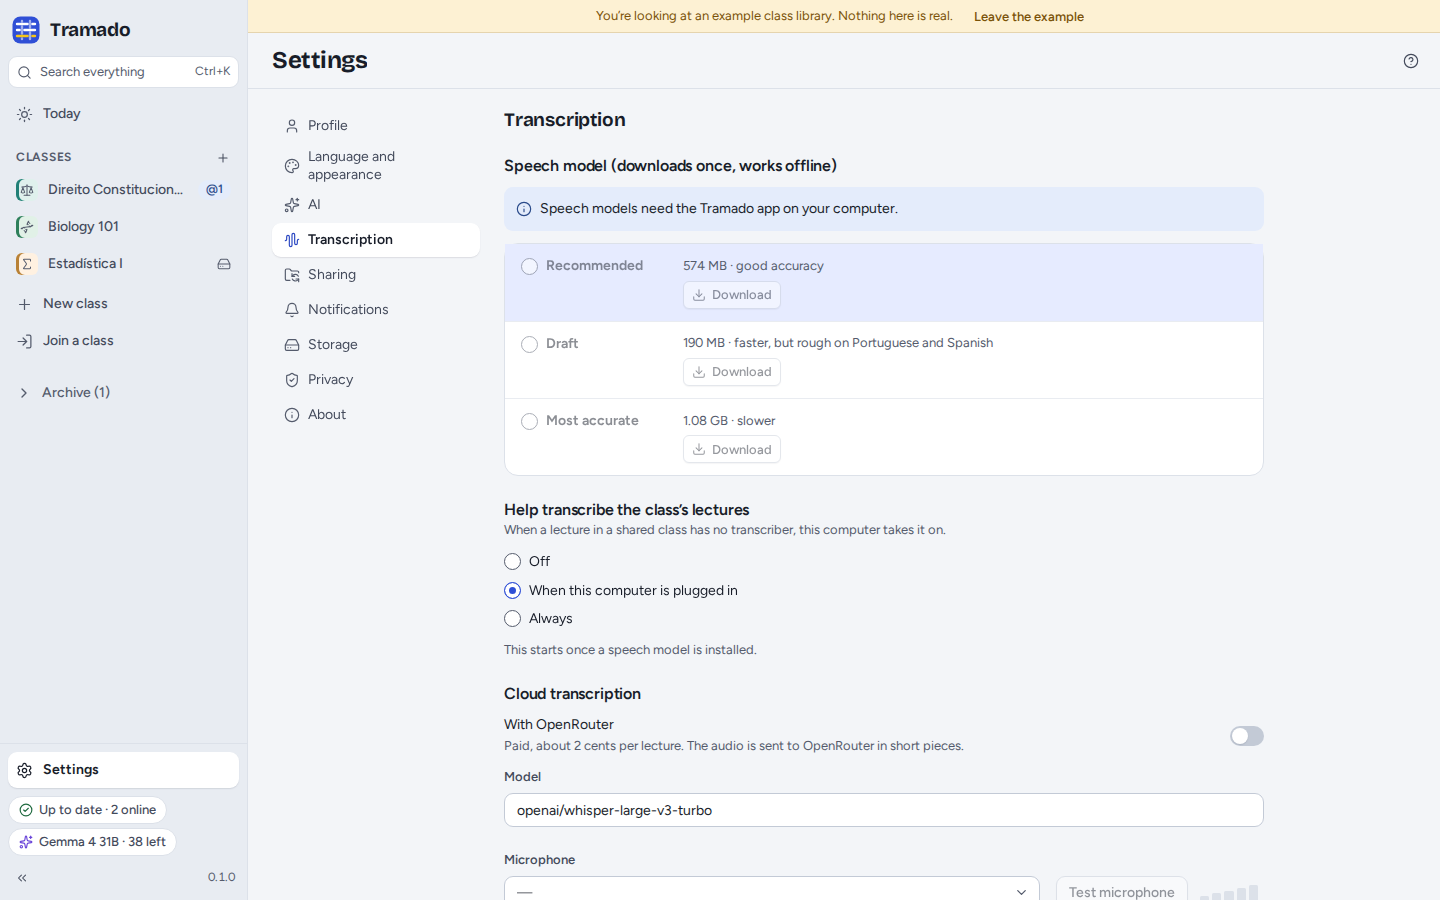
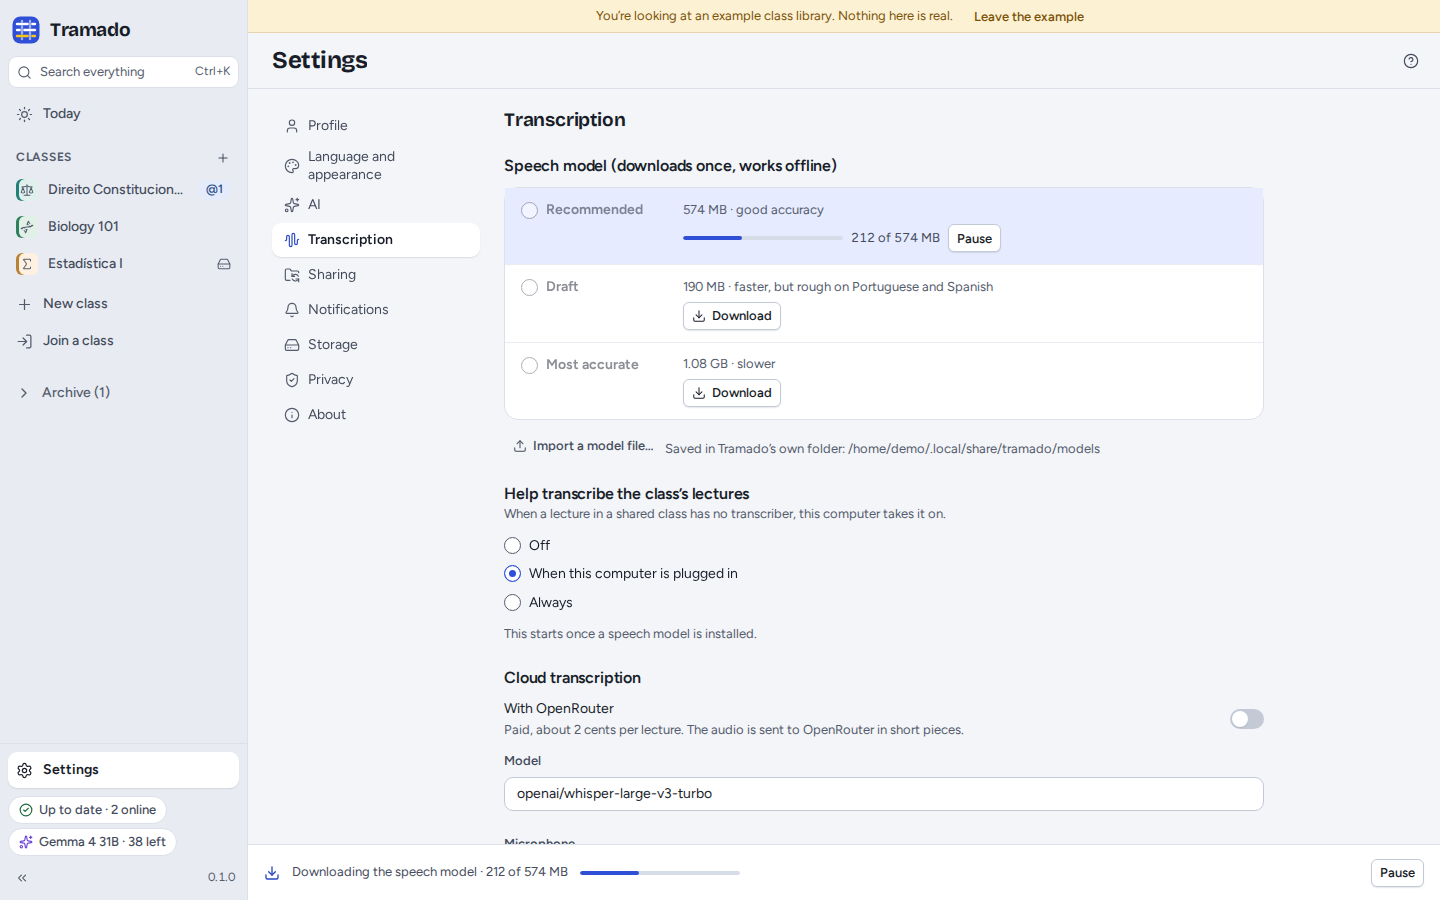
DOCS: review fixes
An independent review checked the documents and workflows against the code at 1e96f72 and fixed what
was not true or would not work:

- ci.yml: the release job fetched Syncthing under Git Bash, where `tar` is GNU tar; it cannot unpack
  the Windows .zip (or a D:\ path), so the Windows installer job would fail. The fetch now runs in the
  runner's default shell (PowerShell on Windows, with Windows' own tar.exe).
- check-links.mjs counted the PNGs `npm run screenshots` leaves in docs/manual/img/<lang>/ (git-ignored),
  so the documented screenshot routine always ended red locally. PNGs are no longer inventoried.
- The Settings › Transcription picture showed the browser demo's "Speech models need the Tramado app"
  notice with greyed models: the shot now loads the speech fake (speech=fake), retaken in en/pt/es.
- AGENTS.md: TRAMADO_SPEECH_DIR is read only by the opt-in tramado-speech tests, not by the app;
  peek-matrix.mjs has no --lang option (it has --name).
- SECURITY.md: private vulnerability reporting is not enabled on the repository yet, so the page now
  says what to do when the button is missing; the link rule names the allow-listed sites.
- ES manual: button names in bold now match the interface (Resaltar, Comentar, Explicar).
- canary.yml: the issue body no longer depends on the script having written its summary.
- README: rust-toolchain.toml selects stable; 1.90 is the minimum from Cargo.toml.

diff --git a/SECURITY.md b/SECURITY.md
@@ -6,8 +6,9 @@ classmates' computers. We take reports seriously and are grateful for them.
 ## Reporting a vulnerability
 
 Please report privately: **do not open a public issue**. Use GitHub's private reporting, the **Report a
-vulnerability** button under this repository's **Security** tab. Include what you found, how to reproduce it, and the
-Tramado version (Settings › About) and operating system. **Copy diagnostics** in Settings › About gives a summary
+vulnerability** button under this repository's **Security** tab. If that button is missing, open an issue titled
+"Security contact" with no details at all, and we will open a private channel and answer there. Include what you
+found, how to reproduce it, and the Tramado version (Settings › About) and operating system. **Copy diagnostics** in Settings › About gives a summary
 without the content of your classes.
 
 We aim to acknowledge reports within 5 working days, to keep you informed while we work on a fix, and to agree a
@@ -31,7 +32,8 @@ The [architecture](docs/dev/architecture.md#16-security-model) (§16) lists ever
   confined to the class's registered folder and refuses symbolic links, so rendered content from a classmate cannot
   read or write elsewhere on your computer.
 - **Untrusted content is rendered safely.** Chat, notes, transcripts and AI output are shown without raw HTML; links
-  open only after a native confirmation; images come only from class files.
+  open in your browser only over `https`, and only after a native confirmation that names the site (except OpenRouter,
+  Hugging Face and this project's own pages); images come only from class files.
 - **Classmates' records are checked.** Membership and authority records are signed with each computer's Syncthing key
   and bound to a person key; a file written by the wrong computer is ignored and the owner's copy restores itself;
   deleting someone else's file needs their authorship.

diff --git a/AGENTS.md b/AGENTS.md
@@ -46,7 +46,7 @@ node .github/scripts/check-links.mjs   # every relative link and picture of the 
 npm run peek -- --route=<r> --query='…' --ready=<testid> --axe [--lang=pt] [--theme=dark] [--scale=1.25] \
      [--click=<id>] [--press=<key>] [--type=<id>=<text>] [--expect=<id>[:n]] [--expect-not=<id>] \
      [--expect-text=<id>=<s>] [--expect-attr=<id>:<attr>=<v|null>] --out=<png>
-node tools/peek-matrix.mjs [--only=m0] [--axe] [--lang=pt] [--jobs=N]   # every entry of tools/peek-routes/*.json
+node tools/peek-matrix.mjs [--only=m0] [--name=<entry>,…] [--axe] [--jobs=N]   # every entry of tools/peek-routes/*.json
 npm run screenshots              # the manual's pictures, en/pt/es (see "Manual screenshots")
 node tools/desktop-smoke.mjs [--flow=g1] [--media-selftest]             # the real debug app under Xvfb
 ```
@@ -68,7 +68,7 @@ Opt-in live AI checks (free models only, never in CI):
 | `TRAMADO_DATA_DIR=<dir>` | isolated config/data/cache/classes under `<dir>` (development, e2e); also disables single-instance, forces the secrets file and keeps Syncthing on loopback |
 | `TRAMADO_E2E=1` | e2e hooks (`window.__tramadoE2E`, dialog queue `TRAMADO_E2E_DIALOGS`, `TRAMADO_E2E_EVAL`, `TRAMADO_E2E_MEDIA_SELFTEST`); honoured only with `TRAMADO_DATA_DIR` |
 | `TRAMADO_SYNCTHING_BIN` | the Syncthing binary to run (else the sidecar next to the executable) |
-| `TRAMADO_SPEECH_DIR` | where speech models are looked up (tests, offline machines) |
+| `TRAMADO_SPEECH_DIR` | the folder with model files for the opt-in `tramado-speech` tests (`crates/tramado-speech/tests/*.rs`); the app ignores it |
 | `TRAMADO_SYNCTHING_FROM`, `TRAMADO_SPEECH_FROM` | the fetch scripts copy from a local folder instead of downloading |
 | `TRAMADO_AI_LIVE=1` | runs the live AI tests (with `OPENROUTER_API_KEY`) |
 | `TRAMADO_PROPERTY_RUNS` | property-test runs (`test:property` sets 2000) |

diff --git a/docs/manual/es/04-documents-notes-search.md b/docs/manual/es/04-documents-notes-search.md
@@ -27,8 +27,8 @@ recientemente*).
 ![Un texto legal abierto en la página que cita una respuesta, con el pasaje marcado y la lista de artículos](../img/es/document-pdf.webp)
 
 Los PDF se abren dentro de Tramado, con navegación por **página**, **zoom**, **Ajustar al ancho** y **Buscar en el
-documento**. Los textos legales tienen la lista de sus **Artículos** a la izquierda. Seleccione texto para
-**Resaltarlo** (los resaltados se quedan en este ordenador), **Explicarlo**, **Preguntar** sobre él o **Copiar con la
+documento**. Los textos legales tienen la lista de sus **Artículos** a la izquierda. Seleccione texto y elija
+**Resaltar** (los resaltados se quedan en este ordenador), **Explicar**, **Preguntar** o **Copiar con la
 fuente** (*«…» — Constitución, art. 18, p. 9*). **Preguntar sobre este documento** abre Preguntar con este documento
 como fuente; **Abrir con…** abre el archivo en otra aplicación. Cuando una respuesta de la IA cita un pasaje, el
 documento se abre en esa página con el pasaje marcado.

diff --git a/docs/manual/es/03-lectures.md b/docs/manual/es/03-lectures.md
@@ -86,8 +86,8 @@ silicon; si no lo tiene, el ordenador de un compañero u OpenRouter pueden trans
   en cualquier punto para saltar allí.
 - **La transcripción**: haga clic en la hora de una línea para escuchar desde ahí. **Buscar en la transcripción** busca
   en el texto. Las referencias a artículos (*artículo 18*) enlazan con el documento que los contiene.
-- **Seleccione texto** para **Resaltarlo** (Importante, No lo entendí, Examen, Pendiente, Otro), **Comentarlo** (solo
-  usted lo ve), **Explicarlo** con IA, **Preguntar…** sobre él o **Copiar con la fuente**.
+- **Seleccione texto** y elija **Resaltar** (Importante, No lo entendí, Examen, Pendiente, Otro), **Comentar** (solo
+  usted lo ve), **Explicar** con IA, **Preguntar…** o **Copiar con la fuente**.
 - **El panel lateral**: **Notas** (solo suyas; <kbd>N</kbd> añade una en el momento actual), **IA** y **Marcadores**
   (los suyos, más los momentos en los que el profesor dijo algo como "esto entra en el examen", encontrados
   automáticamente).

diff --git a/README.md b/README.md
@@ -102,7 +102,8 @@ classmates' computers or OpenRouter can transcribe for you.
 
 ### Build from source
 
-Requirements: Node.js 22.12 or later, Rust stable 1.90 or later (`rust-toolchain.toml` picks it), and on Linux:
+Requirements: Node.js 22.12 or later, Rust 1.90 or later (`rust-toolchain.toml` selects the stable channel), and on
+Linux:
 
 ```bash
 sudo apt install libwebkit2gtk-4.1-dev libgtk-3-dev libsoup-3.0-dev librsvg2-dev libayatana-appindicator3-dev \
